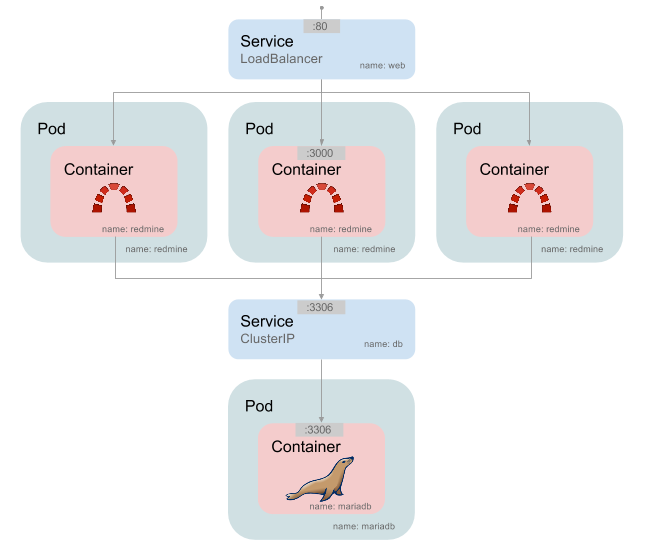
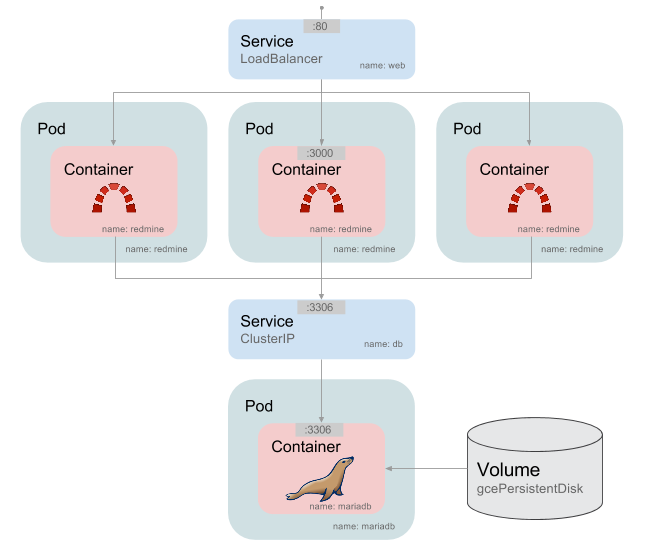
updated readmes

Changed region(s): [[0.7132, 0.7445, 0.9612, 0.9617]]

diff --git a/hands-on/2_multitier_app/README.md b/hands-on/2_multitier_app/README.md
@@ -20,6 +20,10 @@ Also, since we want Kubernetes to control failures, we are creating [replication
 
 We are also using two [services](http://kubernetes.io/v1.1/docs/user-guide/services.html), one for the web part (which is public) and another one for the database (which is private).
 
+### A volume
+
+We need a [volume](http://kubernetes.io/v1.0/docs/user-guide/volumes.html) to persist data in the database. We are going to use a _gcePersistentDisk_ as support for that volume.
+
 ## Complete the template
 
 In this folder you have templates for the redmine replication controller (`redmine-rc.yml`)[./redmine-rc.yml], mariadb replication controller (`mariadb-rc.yml`)[./mariadb-rc.yml], redmine web service (`web-service.yml`)[./web-service.yml] and db service (`db-service.yml`)[./db-service.yml]. Those templates are not complete, they have some blanks parameter to fill (`<FILL_THIS>`).

diff --git a/hands-on/3_scaling-redmine/README.md b/hands-on/3_scaling-redmine/README.md
@@ -3,3 +3,5 @@
 Scaling an application is not easy. Kubernetes can help in many cases.
 
 Take a look at [this great tutorial](https://github.com/bitnami/bitnami-docker/tree/master/gke/redmine) about scaling a redmine application (ruby app + db).
+
+![schema](./resources/schema.png)
